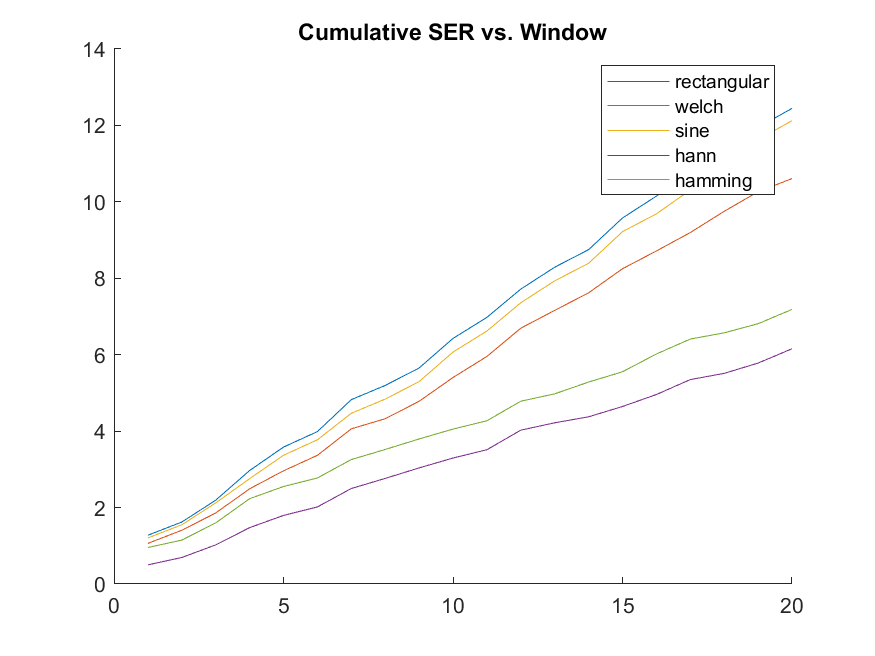
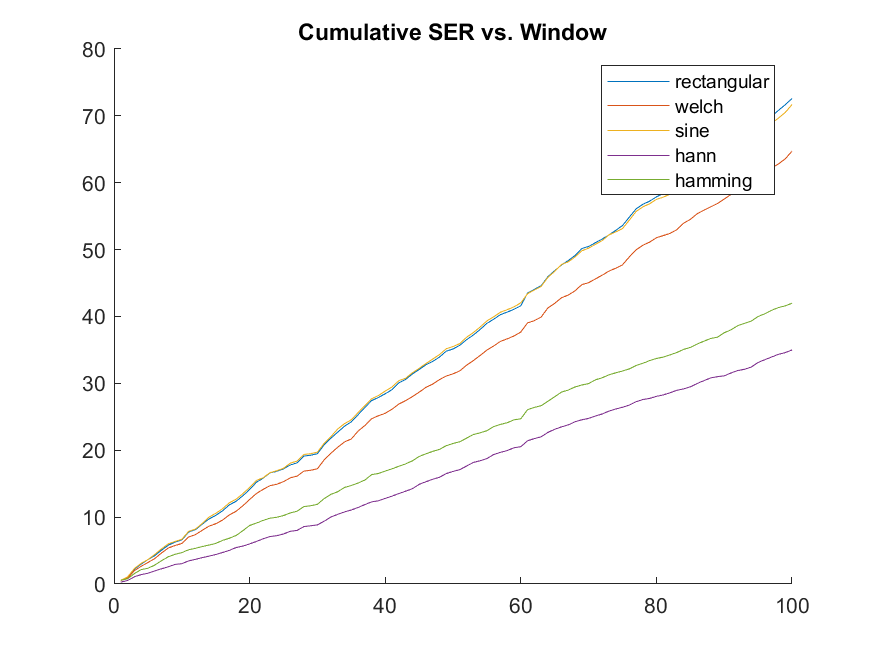
Ran 100 iterations

diff --git a/LoRa Mesh/AlignTrack/SchoolProj/LoRa_one_complete_packet_decoding_MULT2.m b/LoRa Mesh/AlignTrack/SchoolProj/LoRa_one_complete_packet_decoding_MULT2.m
@@ -60,7 +60,7 @@ tEnds = [];
 SER = [];
 cum_SER = [];
 new_SER = [];
-trials = 20;
+trials = 100;
 
 for trial = 1:1:trials
     trial
@@ -181,13 +181,10 @@ for trial = 1:1:trials
                     symbols = symbols3;
             end
 
-            % Ensure arrays are the same length
-            if length(symbols.') ~= length(decoded_messages{i})
-                error('Input and output arrays must have the same length.');
-            end
-
             % Calculate the number of symbol errors
-            numErrors = sum(symbols.' ~= decoded_messages{i});
+            uniqueToArray1 = setdiff(symbols.', decoded_messages{i});
+            uniqueToArray2 = setdiff(decoded_messages{i}, symbols.');
+            numErrors = length(uniqueToArray1) + length(uniqueToArray2);
 
             % Calculate the symbol error rate (SER)
             SER(window, trial, i) = numErrors / length(symbols.');
